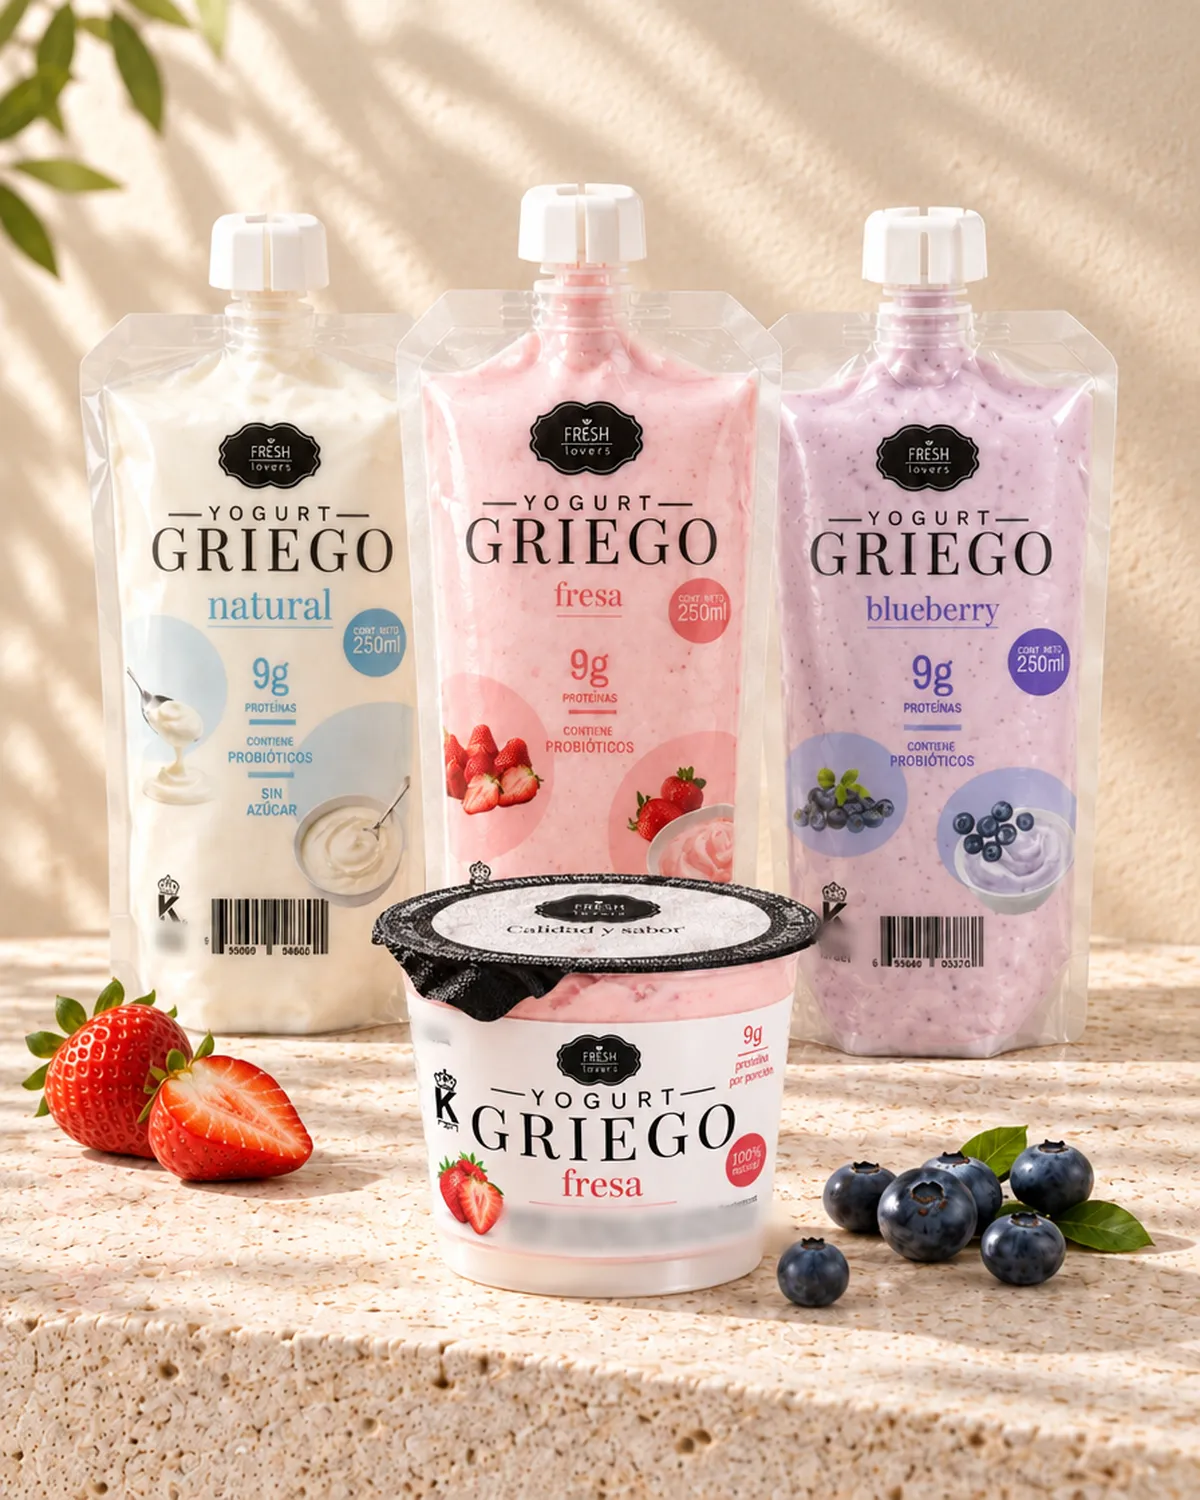
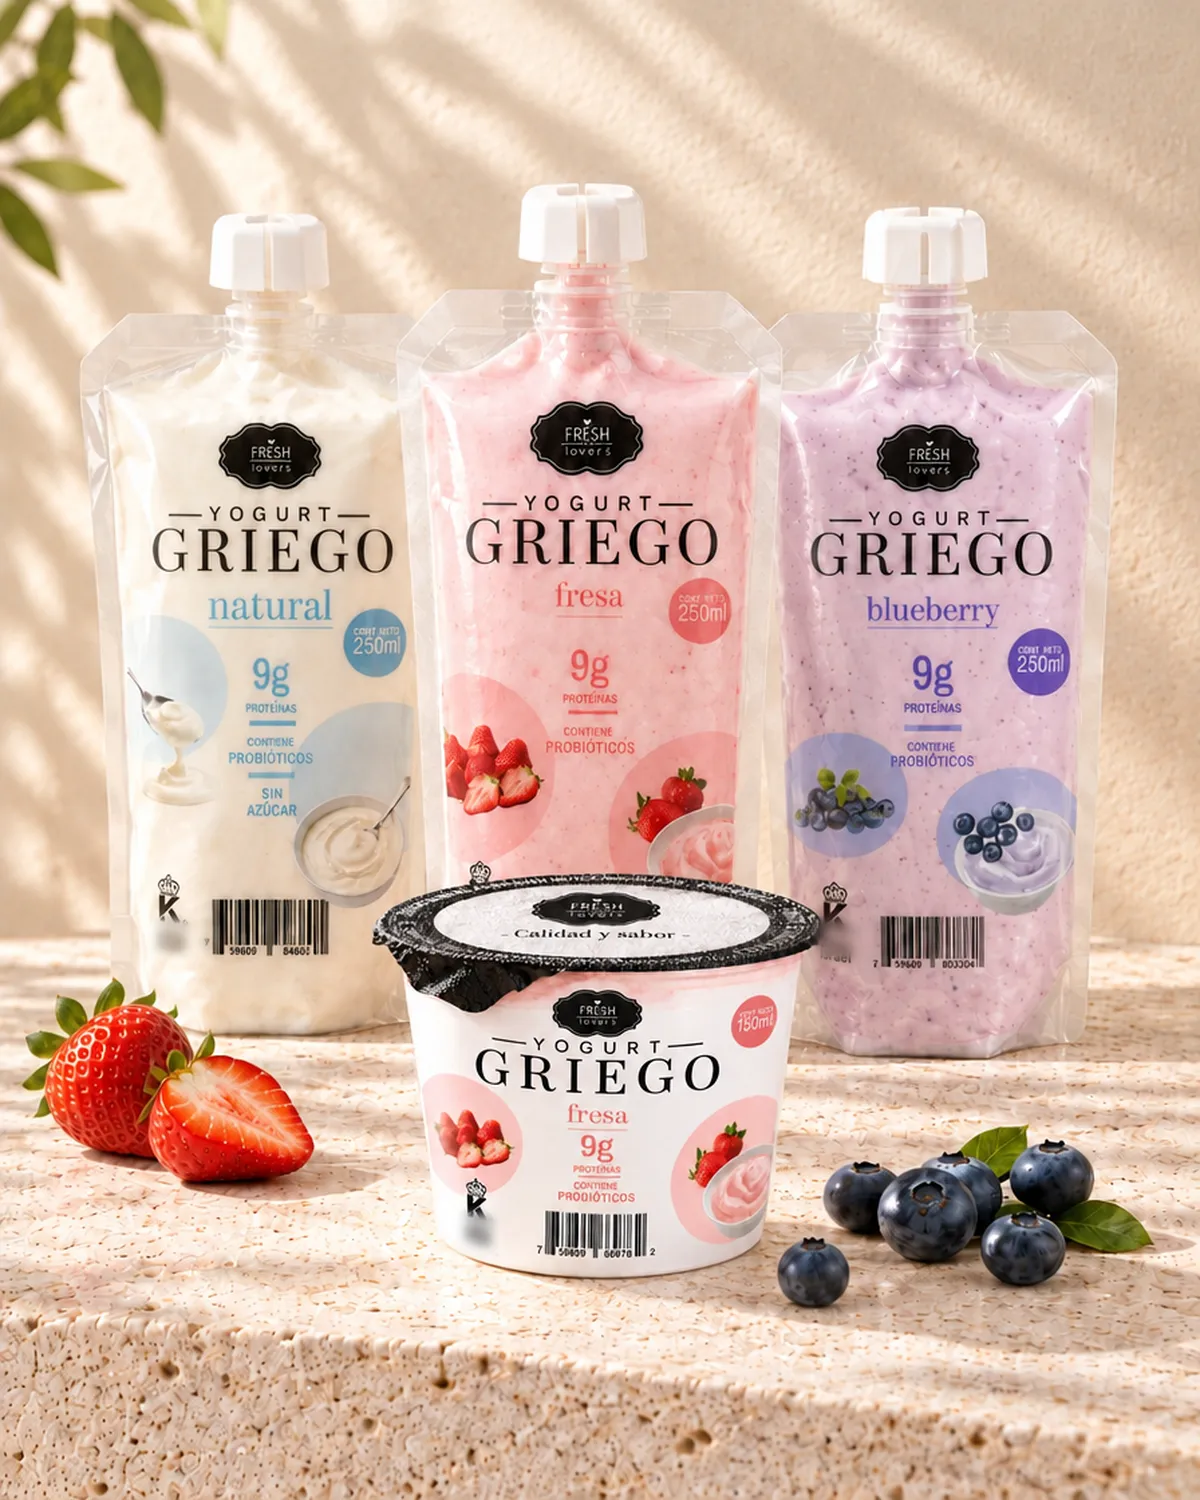
Real labels for Labne con Za'atar and the Griego copa
- Labne con Za'atar gets its own photo with the real green label
  instead of showing the plain Labne tub.
- The Griego copa photos now follow the owner's photo of the real cup:
  short and wide, black 'Calidad y sabor' lid, and the same label as
  the pouch with 150 ml. The earlier copa pictures showed claims that
  are not on the real label ('100% natural', 'proteína por porción')
  and a wrong phone number, so they are removed, and the Griego range
  photo is redone with the corrected copa.

Claude-Session: https://claude.ai/code/session_01GmmAWFHkteyoXDuRLpatpS

diff --git a/fresh-lovers/src/data/photos.ts b/fresh-lovers/src/data/photos.ts
@@ -53,8 +53,6 @@ export const photos = {
   "parfait-vaso": { src: "/products/parfait-vaso.webp", w: 746, h: 852 },
   "parfait": { src: "/products/parfait.webp", w: 1600, h: 2206 },
   "griego-470-natural": { src: "/products/griego-470-natural.webp", w: 1312, h: 1199 },
-  "griego-copa-vainilla": { src: "/products/griego-copa-vainilla.webp", w: 1312, h: 1199 },
-  "griego-copa-fresa": { src: "/products/griego-copa-fresa.webp", w: 1312, h: 1199 },
   "parfait-pina": { src: "/products/parfait-pina.webp", w: 1086, h: 1448 },
   "parfait-apricot": { src: "/products/parfait-apricot.webp", w: 1086, h: 1448 },
   "parfait-blueberry": { src: "/products/parfait-blueberry.webp", w: 1086, h: 1448 },
@@ -96,6 +94,9 @@ export const photos = {
   "studio-granola": { src: "/studio/granola.webp", w: 1200, h: 1500 },
   "studio-harinas": { src: "/studio/harinas.webp", w: 1200, h: 1500 },
   "studio-labne": { src: "/studio/labne.webp", w: 1200, h: 1500 },
+  "studio-labne-zaatar": { src: "/studio/labne-zaatar.webp", w: 1200, h: 1500 },
+  "studio-griego-copa-fresa": { src: "/studio/griego-copa-fresa.webp", w: 1200, h: 1500 },
+  "studio-griego-copa-vainilla": { src: "/studio/griego-copa-vainilla.webp", w: 1200, h: 1500 },
   "studio-labne-con-chips": { src: "/studio/labne-con-chips.webp", w: 1200, h: 1500 },
   "studio-limon-exprimido": { src: "/studio/limon-exprimido.webp", w: 1200, h: 1500 },
   "studio-mix-sopero": { src: "/studio/mix-sopero.webp", w: 1200, h: 1500 },

diff --git a/fresh-lovers/src/data/catalog.ts b/fresh-lovers/src/data/catalog.ts
@@ -232,8 +232,8 @@ export const products: Product[] = [
         accent: "#E7B43C",
         ingredients: `Leche pasteurizada, ${YOGURT_CULTURES}, fresas, banana, azúcar, saborizante.`,
       },
-      { name: "Copa · vainilla", photo: "griego-copa-vainilla", bg: "#F1E3BF", ink: "#7A5A22", accent: "#C9A464", note: "Copa 150 ml" },
-      { name: "Copa · fresa", photo: "griego-copa-fresa", bg: "#F6C3CB", ink: "#A3263F", accent: "#E06A80", note: "Copa 150 ml" },
+      { name: "Copa · vainilla", photo: "studio-griego-copa-vainilla", bg: "#F1E3BF", ink: "#7A5A22", accent: "#C9A464", note: "Copa 150 ml" },
+      { name: "Copa · fresa", photo: "studio-griego-copa-fresa", bg: "#F6C3CB", ink: "#A3263F", accent: "#E06A80", note: "Copa 150 ml" },
       { name: "470 ml · natural", photo: "griego-470-natural", bg: "#C3D2E1", ink: "#2F4A63", accent: "#8FA8C0", note: "Envase 470 ml" },
     ],
     sizes: ["Copa 150 ml", "Pouch 250 ml", "470 ml"],
@@ -471,6 +471,7 @@ export const products: Product[] = [
       },
       {
         name: "con Za'atar",
+        photo: "studio-labne-zaatar",
         bg: "#4B50C2",
         ink: "#FFFFFF",
         accent: "#9BA84A",
